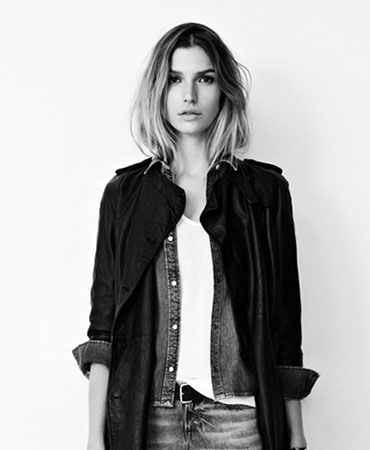
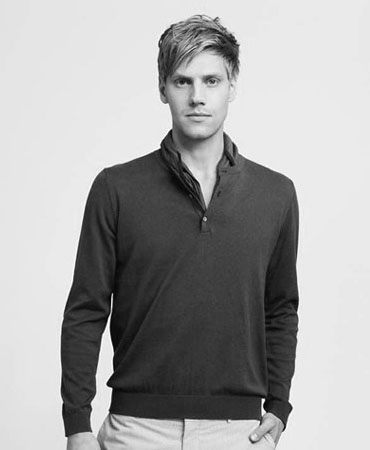
Content filling: About studio, Lets talk, Why chose us

diff --git a/index.html b/index.html
@@ -3,7 +3,7 @@
   <head>
     <meta charset="utf-8">
     <meta name="viewport" content="width=device-width, initial-scale=1">
-    <title>Landing</title>
+    <title>Homework6</title>
     <!-- Custom icons -->
     <link rel="stylesheet" href="css/et-line.css">
 		<!-- Custom style -->
@@ -14,6 +14,7 @@
     <div id="main">
       <div class="inner"></div>
       <!-- /.inner -->
+      <!-- About studio start -->
       <div class="default-section about-studio">
         <div class="container">
           <h3 class="title">About studio</h3>
@@ -27,11 +28,11 @@
             </div>
             <!-- /.col col-4 -->
             <div class="col col-4">
-              <p class="default-text">Lorem ipsum dolor sit amet, consectetur adipisicing elit. Quod nobis ut dolore voluptas soluta? Consectetur rem molestiae quibusdam consequuntur harum architecto totam expedita magni dolorem natus eum mollitia, ut ratione.</p>
+              <p class="default-text">Lorem ipsum dolor sit amet, consectetur adipiscing elit. In maximus ligula semper metus pellentesque mattis. Maecenas  volutpat, diam enim sagittis quam, id porta quam. Sed id dolor consectetur fermentum nibh volutpat, accumsan purus.</p>
             </div>
             <!-- /.col col-4 -->
             <div class="col col-4">
-              <p class="default-text">Lorem ipsum dolor sit amet, consectetur adipisicing elit. Quod nobis ut dolore voluptas soluta? Consectetur rem molestiae quibusdam consequuntur harum architecto totam expedita magni dolorem natus eum mollitia, ut ratione.</p>              
+              <p class="default-text">Etiam sit amet fringilla lacus. Pellentesque suscipit ante at ullamcorper pulvinar neque porttitor. Integer lectus. Praesent sed nisi eleifend, fermentum orci amet, iaculis libero. Donec vel ultricies purus. Nam dictum sem, eu aliquam ipsum.</p>              
             </div>
             <!-- /.col col-4 -->
           </div>
@@ -55,12 +56,12 @@
             <div class="col col-4">
               <div class="team-item">
                 <div class="team-item-photo">
-                  <img src="img/team-img-1.jpg" alt="">
+                  <img src="img/team-img-2.jpg" alt="">
                 </div>
                 <!-- /.team-item-photo -->
                 <div class="team-item-info text-center">
-                  <span class="team-item-name">Thomas Rythm</span>
-                  <span class="team-item-role">Art Director</span>
+                  <span class="team-item-name">Marta Laning</span>
+                  <span class="team-item-role">Web Engineer</span>
                 </div>
                 <!-- /.team-item-info -->
               </div>
@@ -70,12 +71,12 @@
             <div class="col col-4">
               <div class="team-item">
                 <div class="team-item-photo">
-                  <img src="img/team-img-1.jpg" alt="">
+                  <img src="img/team-img-3.jpg" alt="">
                 </div>
                 <!-- /.team-item-photo -->
                 <div class="team-item-info text-center">
-                  <span class="team-item-name">Thomas Rythm</span>
-                  <span class="team-item-role">Art Director</span>
+                  <span class="team-item-name">Steve Anders</span>
+                  <span class="team-item-role">Developer</span>
                 </div>
                 <!-- /.team-item-info -->
               </div>
@@ -85,8 +86,10 @@
           </div>
           <!-- /.row -->
         </div>
+        <!-- /.container -->
       </div>
       <!-- /.default-section about-studio -->
+      <!-- Lets talk start -->
       <div class="lets-talk bg-black">
         <div class="container">
           <div class="row">
@@ -110,6 +113,7 @@
         <!-- /.container -->
       </div>
       <!-- /.lets-talk bg-black -->
+      <!-- Why chose us start -->
       <div class="default-section why-choose-us">
         <div class="container">
           <h3 class="title text-center">Why Choose Us?</h3>
@@ -121,27 +125,60 @@
               <!-- /.advantage-icon -->
               <h6 class="advantage-title text-center">We're Creative</h6>
               <!-- /.advantage-title -->
-              <p class="default-text">Lorem ipsum dolor sit amet consectetur adipisicing elit. Vero, ipsum porro consectetur fugiat ut soluta quam, facilis maiores illum inventore eveniet explicabo repellendus, esse commodi dolorum iste ad tempore quod.</p>
+              <p class="default-text">Lorem ipsum dolor sit amet, consectetur adipiscing elit. In maximus ligula semper metus pellentesque mattis. Maecenas  volutpat, diam enim.</p>
             </div>
             <!-- /.col col-4 -->
             <div class="col col-4">
                 <div class="advantage-icon text-center">
-                  <span class="icon-flag"></span>
+                  <span class="icon-clock"></span>
                 </div>
                 <!-- /.advantage-icon -->
-                <h6 class="advantage-title text-center">We're Creative</h6>
+                <h6 class="advantage-title text-center">We’re Punctual</h6>
                 <!-- /.advantage-title -->
-                <p class="default-text">Lorem ipsum dolor sit amet consectetur adipisicing elit. Vero, ipsum porro consectetur fugiat ut soluta quam, facilis maiores illum inventore eveniet explicabo repellendus, esse commodi dolorum iste ad tempore quod.</p>
+                <p class="default-text">Proin fringilla augue at maximus vestibulum. Nam pulvinar vitae neque et porttitor. Praesent sed nisi eleifend, lorem fermentum orci sit amet, iaculis libero.</p>
             </div>
             <!-- /.col col-4 -->
             <div class="col col-4">
                 <div class="advantage-icon text-center">
-                  <span class="icon-flag"></span>
+                  <span class="icon-hotairballoon"></span>
                 </div>
                 <!-- /.advantage-icon -->
-                <h6 class="advantage-title text-center">We're Creative</h6>
+                <h6 class="advantage-title text-center">We have magic</h6>
                 <!-- /.advantage-title -->
-                <p class="default-text">Lorem ipsum dolor sit amet consectetur adipisicing elit. Vero, ipsum porro consectetur fugiat ut soluta quam, facilis maiores illum inventore eveniet explicabo repellendus, esse commodi dolorum iste ad tempore quod.</p>
+                <p class="default-text">Curabitur iaculis accumsan augue, nec finibus mauris pretium eu. Duis placerat ex gravida nibh tristique porta. Nulla facilisi. Suspendisse ultricies eros blandit.</p>
+            </div>
+            <!-- /.col col-4 -->
+          </div>
+          <!-- /.row -->
+          <div class="row">
+            <div class="col col-4">
+              <div class="advantage-icon text-center">
+                <span class="icon-heart"></span>
+              </div>
+              <!-- /.advantage-icon -->
+              <h6 class="advantage-title text-center">We love minimalism</h6>
+              <!-- /.advantage-title -->
+              <p class="default-text">Cras luctus interdum sodales. Quisque quis odio dui. Sedes sit amet neque malesuada, lobortis  commodo magna ntesque pharetra metus vivera sagittis.</p>
+            </div>
+            <!-- /.col col-4 -->
+            <div class="col col-4">
+                <div class="advantage-icon text-center">
+                  <span class="icon-linegraph"></span>
+                </div>
+                <!-- /.advantage-icon -->
+                <h6 class="advantage-title text-center">We’re responsible</h6>
+                <!-- /.advantage-title -->
+                <p class="default-text">Fusce aliquet quam eget neque ultrices elementum. Nulla posuere felis id arcu blandit sagittis. Eleifend vestibulum purus, sit amet vulputate risus tristique non.</p>
+            </div>
+            <!-- /.col col-4 -->
+            <div class="col col-4">
+                <div class="advantage-icon text-center">
+                  <span class="icon-chat"></span>
+                </div>
+                <!-- /.advantage-icon -->
+                <h6 class="advantage-title text-center">We're Friendly</h6>
+                <!-- /.advantage-title -->
+                <p class="default-text">Pulvinar vitae neque et porttitor. Integer non dapibus diam, ac eleifend lectus. Praesent sed nisi eleifend, fermentum orci sit amet, iaculis libero interdum.</p>
             </div>
             <!-- /.col col-4 -->
           </div>

diff --git a/css/style.css b/css/style.css
@@ -153,6 +153,19 @@ button {
 	color: rgba(255, 255, 255, .7);
 }
 /* ===== Lets talk end ===== */
+/* ===== Why chose us start ===== */
+.advantage-icon span{
+	font-size: 50px;
+}
+.advantage-title{
+	padding: 33px 0;
+}
+.why-choose-us .row + .row {
+	margin-top: 80px;
+}
+
+/* ===== Why chose us stop ===== */
+
 /* Custom style end */
 
 
